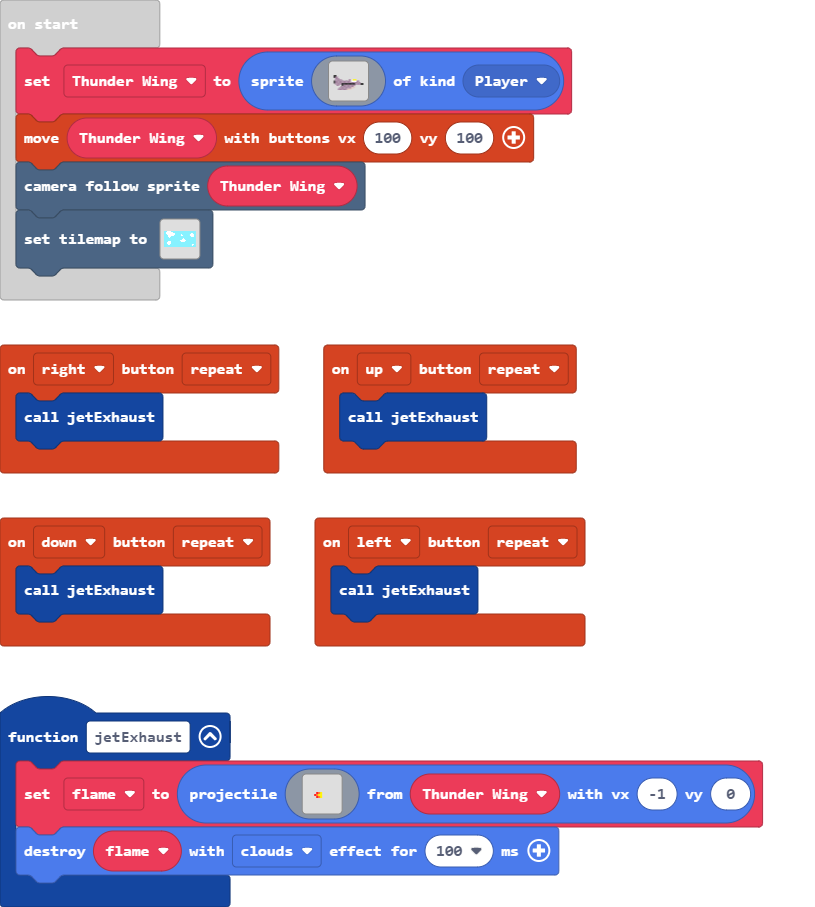
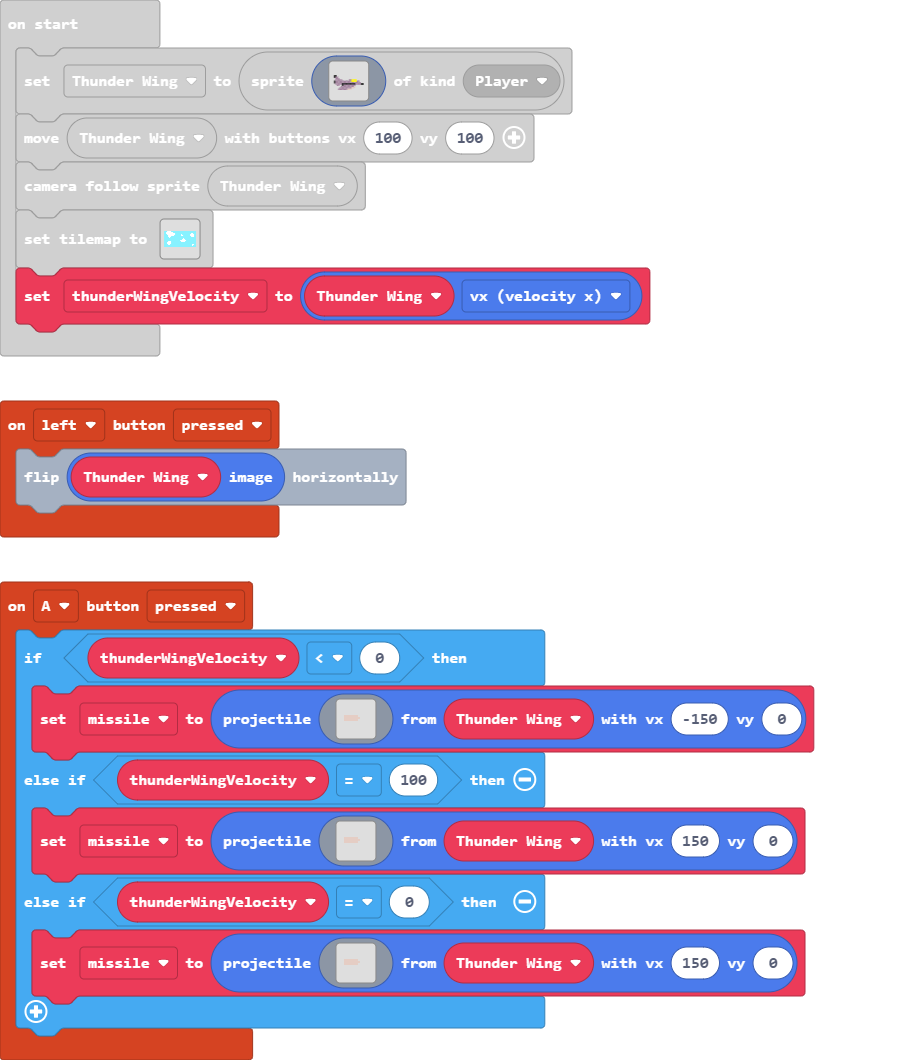
Update main.blocks, main.ts

diff --git a/main.ts b/main.ts
@@ -1,8 +1,71 @@
 controller.up.onEvent(ControllerButtonEvent.Repeated, function () {
     jetExhaust()
 })
+controller.A.onEvent(ControllerButtonEvent.Pressed, function () {
+    if (thunderWingVelocity < 0) {
+        missile = sprites.createProjectileFromSprite(img`
+            . . . . . . . . . . . . . . . . 
+            . . . . . . . . . . . . . . . . 
+            . . . . . . . . . . . . . . . . 
+            . . . . . . . . . . . . . . . . 
+            . . . . . . . . . . . . . . . . 
+            . . . . . . . . . . . . . . . . 
+            . . d d d d d d d . . . . . . . 
+            . . d d d d d d d d . . . . . . 
+            . . d d d d d d d . . . . . . . 
+            . . . . . . . . . . . . . . . . 
+            . . . . . . . . . . . . . . . . 
+            . . . . . . . . . . . . . . . . 
+            . . . . . . . . . . . . . . . . 
+            . . . . . . . . . . . . . . . . 
+            . . . . . . . . . . . . . . . . 
+            . . . . . . . . . . . . . . . . 
+            `, Thunder_Wing, -150, 0)
+    } else if (thunderWingVelocity == 100) {
+        missile = sprites.createProjectileFromSprite(img`
+            . . . . . . . . . . . . . . . . 
+            . . . . . . . . . . . . . . . . 
+            . . . . . . . . . . . . . . . . 
+            . . . . . . . . . . . . . . . . 
+            . . . . . . . . . . . . . . . . 
+            . . . . . . . . . . . . . . . . 
+            . . d d d d d d d . . . . . . . 
+            . . d d d d d d d d . . . . . . 
+            . . d d d d d d d . . . . . . . 
+            . . . . . . . . . . . . . . . . 
+            . . . . . . . . . . . . . . . . 
+            . . . . . . . . . . . . . . . . 
+            . . . . . . . . . . . . . . . . 
+            . . . . . . . . . . . . . . . . 
+            . . . . . . . . . . . . . . . . 
+            . . . . . . . . . . . . . . . . 
+            `, Thunder_Wing, 150, 0)
+    } else if (thunderWingVelocity == 0) {
+        missile = sprites.createProjectileFromSprite(img`
+            . . . . . . . . . . . . . . . . 
+            . . . . . . . . . . . . . . . . 
+            . . . . . . . . . . . . . . . . 
+            . . . . . . . . . . . . . . . . 
+            . . . . . . . . . . . . . . . . 
+            . . . . . . . . . . . . . . . . 
+            . . d d d d d d d . . . . . . . 
+            . . d d d d d d d d . . . . . . 
+            . . d d d d d d d . . . . . . . 
+            . . . . . . . . . . . . . . . . 
+            . . . . . . . . . . . . . . . . 
+            . . . . . . . . . . . . . . . . 
+            . . . . . . . . . . . . . . . . 
+            . . . . . . . . . . . . . . . . 
+            . . . . . . . . . . . . . . . . 
+            . . . . . . . . . . . . . . . . 
+            `, Thunder_Wing, 150, 0)
+    }
+})
 controller.right.onEvent(ControllerButtonEvent.Repeated, function () {
     jetExhaust()
+})
+controller.left.onEvent(ControllerButtonEvent.Pressed, function () {
+    Thunder_Wing.image.flipX()
 })
 function jetExhaust () {
     flame = sprites.createProjectileFromSprite(img`
@@ -32,6 +95,8 @@ controller.left.onEvent(ControllerButtonEvent.Repeated, function () {
     jetExhaust()
 })
 let flame: Sprite = null
+let missile: Sprite = null
+let thunderWingVelocity = 0
 let Thunder_Wing: Sprite = null
 Thunder_Wing = sprites.create(img`
     ........................
@@ -41,8 +106,8 @@ Thunder_Wing = sprites.create(img`
     .ff.....................
     .fbb....................
     ..bbb...................
-    ..bbbbb.....bb1555......
-    .fbbbbbbbbbbbb1111bb....
+    ..bbbbb.....bb5555......
+    .fbbbbbbbbbbbb5555bb....
     .fbbbbbbbbbbbbbbbbbbb...
     ..bbbbbffffffffffbbbbff.
     ...bb..fbbbbbbbbb.......
@@ -54,3 +119,4 @@ Thunder_Wing = sprites.create(img`
 controller.moveSprite(Thunder_Wing, 100, 100)
 scene.cameraFollowSprite(Thunder_Wing)
 tiles.setTilemap(tilemap`level1`)
+thunderWingVelocity = Thunder_Wing.vx
